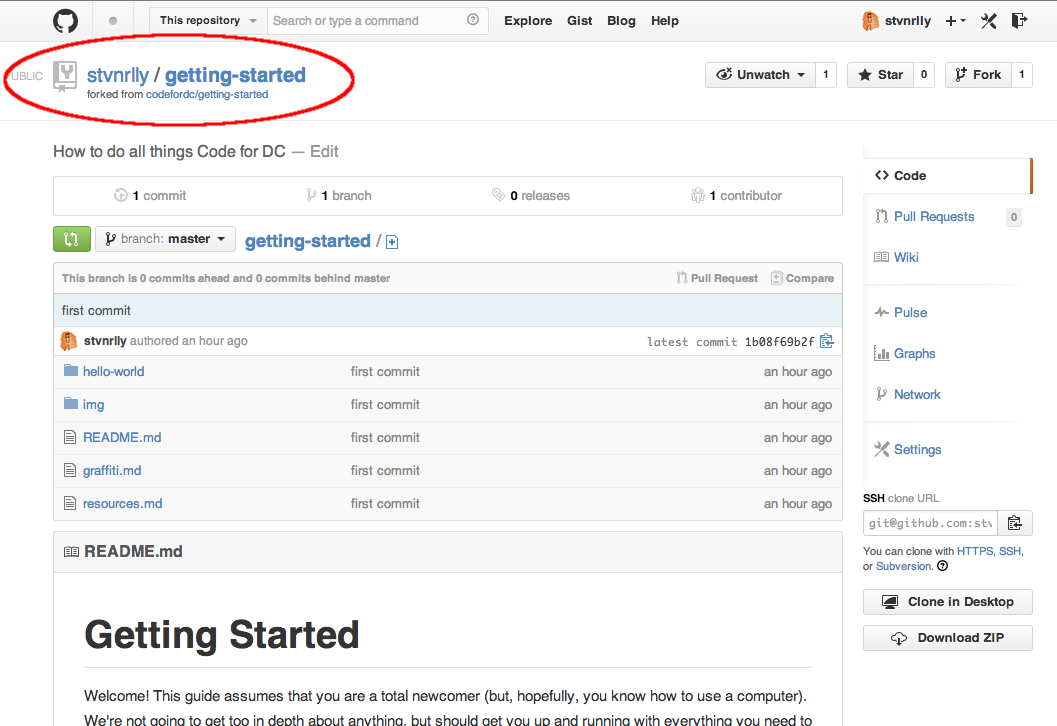
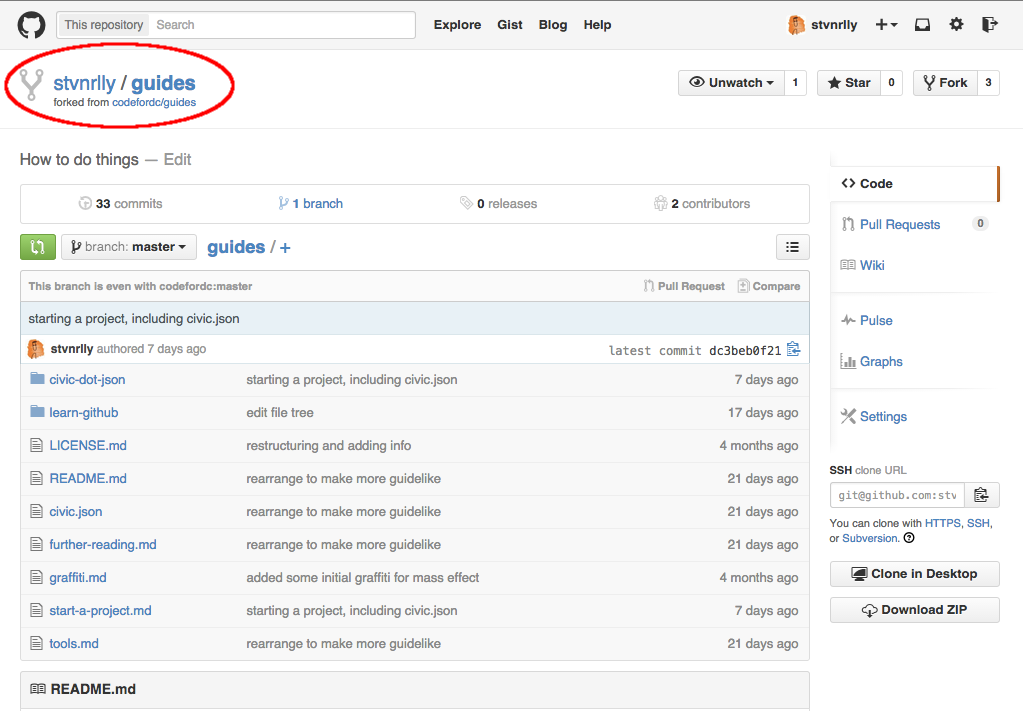
edit github guide with new images and names

diff --git a/learn-github/learn-github-osx.md b/learn-github/learn-github-osx.md
@@ -137,11 +137,11 @@ As mentioned above, git works by holding a central repo of all of the files, to 
 
 Once you're set up with Github, look around this page (mostly near the top) and you'll notice a few things.
 
-First, the name of the repo and its owner. This is listed on the page, as well as in the URL. Right below that, in the gray bar, you can check out the commit history of the repo, which can show you which change happened when. For example, [in this repo](https://github.com/codefordc/getting-started/commits/master), you can see that the [first commit](https://github.com/codefordc/getting-started/commit/1b08f69b2fd5837af42dc12326bd9394414dfbe5) included a few files, the [second commit](https://github.com/codefordc/getting-started/commit/4fb3ad2022931b5a057f4ffe0061c832454ce4d1) was a commit from a pull request, the [third commit](https://github.com/codefordc/getting-started/commit/044f148863601491e1dce26f1f14dc25e4d513b0) merged that commit from a fork of the repo into the Code for DC repo (it might look confusing because @stvnrlly made both commits), and the [fourth commit](https://github.com/codefordc/getting-started/commit/defc8390dce25e61236f350311e124d0bea80d48) added screenshots and more text to this document.
+First, the name of the repo and its owner. This is listed on the page, as well as in the URL. Right below that, in the gray bar, you can check out the commit history of the repo, which can show you which change happened when. For example, [in this repo](https://github.com/codefordc/guides/commits/master), you can see that the [first commit](https://github.com/codefordc/guides/commit/1b08f69b2fd5837af42dc12326bd9394414dfbe5) included a few files, the [second commit](https://github.com/codefordc/guides/commit/4fb3ad2022931b5a057f4ffe0061c832454ce4d1) was a commit from a pull request, the [third commit](https://github.com/codefordc/guides/commit/044f148863601491e1dce26f1f14dc25e4d513b0) merged that commit from a fork of the repo into the Code for DC repo (it might look confusing because @stvnrlly made both commits), and the [fourth commit](https://github.com/codefordc/guides/commit/defc8390dce25e61236f350311e124d0bea80d48) added screenshots and more text to this document.
 
 ![](./img/github-repo-owner.png)
 
-Second, to the right of the code, the `Issues` and `Pull Requests` tabs. Issues are for discussing ideas and problems with the repo. Check out the [issues for this repo](https://github.com/codefordc/getting-started/issues) to see what we're discussing; maybe you can help resolve one of them! Pull requests are how you ask to have your commits added to the repo, which we'll cover once you've pushed some commits to your own version of the repo.
+Second, to the right of the code, the `Issues` and `Pull Requests` tabs. Issues are for discussing ideas and problems with the repo. Check out the [issues for this repo](https://github.com/codefordc/guides/issues) to see what we're discussing; maybe you can help resolve one of them! Pull requests are how you ask to have your commits added to the repo, which we'll cover once you've pushed some commits to your own version of the repo.
 
 ![](./img/github-repo-issues.png)
 
@@ -151,7 +151,7 @@ Third, the `Fork` button up in the top right. If you don't have push permissions
 
 So, how do you add your code to the main repo? By making a pull request. This tells the repo's owner that you'd like them to merge some of your commits from your fork into the main repo. Before you do that, though, you'll need to make some commits, and that means doing some coding.
 
-To work on the code, you'll need to get a local copy of the repo. Get started by clicking that `Fork` button, which will take you to your own special version of the repo. As you can see, this repo has the full commit history of the repo you just forked, but it will not include future changes without a pull request. If you go look at [@stvnrlly's fork](https://github.com/stvnrlly/getting-started), for instance, you'll see that it doesn't have any of the more recent commits to the Code for DC repo, but it does have some commits unique to the fork.
+To work on the code, you'll need to get a local copy of the repo. Get started by clicking that `Fork` button, which will take you to your own special version of the repo. As you can see, this repo has the full commit history of the repo you just forked, but it will not include future changes without a pull request. If you go look at [@stvnrlly's fork](https://github.com/stvnrlly/guides), for instance, you'll see that it doesn't have any of the more recent commits to the Code for DC repo, but it does have some commits unique to the fork.
 
 ![](./img/github-forked-owner.png)
 
@@ -169,9 +169,9 @@ If you haven't done anything extra, your `Programming` folder should now look so
 
     .
     ├── hello-world.txt
-    └── getting-started
+    └── guides
 
-We're going to work on the files in the `getting-started` directory, so go ahead and `cd` into it.
+We're going to work on the files in the `guides` directory, so go ahead and `cd` into it.
 
 ## Editing!
 
@@ -226,6 +226,8 @@ That's it! On the other side, your pull request will look like this:
 
 ![](./img/github-pullrequest-approval.png)
 
-The owner might accept your request and merge the commits, discuss it and perhaps ask for some changes to the commits, or decline to accept it.
+The owner might accept your request and merge the commits, discuss it and perhaps ask for some changes to the commits, or decline to accept it. You can monitor how up-to-date your fork is by checking out the status bar right above the files:
+
+![](./img/github-forked-status.png)
 
 Now you're ready to take on a new challenge, either by finding a [Code for DC project](codefordc.org/projects) to work on, or by creating a new project to add to that list. Happy hacking!
